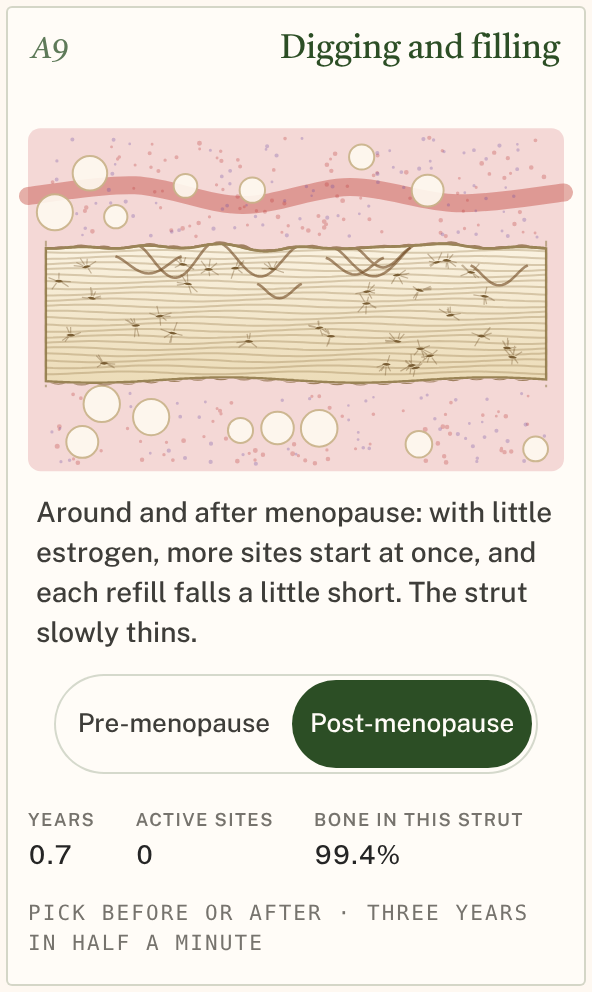
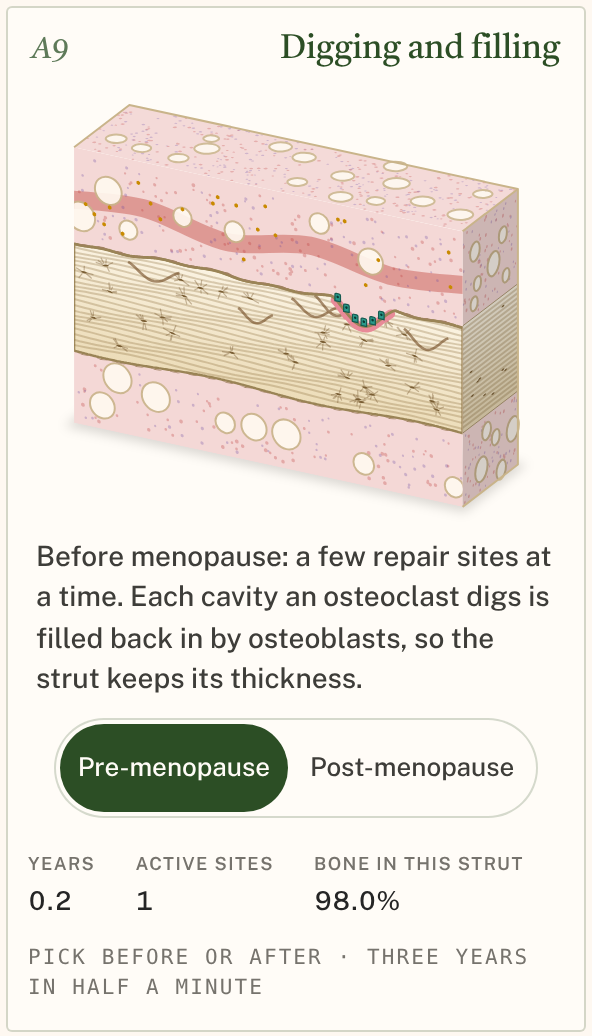
A9: section becomes the face of a 3-D bone-and-marrow block
The remodelling section is mapped onto the front of an isometric cut-away
block (as A3b and A8). The top shows marrow from above; the right end
shows the strut in cross-section with lamellae between marrow layers.
Live code untouched. Both themes, post state, 320 px, reduced motion,
console clean, line ends 0.

Claude-Session: https://claude.ai/code/session_01BGndyyGpXNQbxpF4TgwG4g

diff --git a/figures/a9-bone-remodelling/figure.css b/figures/a9-bone-remodelling/figure.css
@@ -44,3 +44,8 @@
 .a9-par { display: block; margin-top: 6px; }
 .a9-par:first-child { margin-top: 0; }
 .a9-par small { font-size: 12.5px; color: var(--anatomy-muted); }
+/* the 3-D block: top and right end faces */
+.b9-top-light { fill: #fff; opacity: 0.07; }
+.b9-side-shade { fill: #000; opacity: 0.16; }
+.b9-edge { fill: none; stroke: var(--a9-fat-edge); stroke-width: 1; stroke-linejoin: round; }
+.b9-shadow { fill: rgba(0, 0, 0, 0.14); filter: blur(6px); }

diff --git a/figures/a9-bone-remodelling/NOTES.md b/figures/a9-bone-remodelling/NOTES.md
@@ -57,3 +57,11 @@ Calibration targets are SWAN's ≈ 2–2.5 %/yr at the spine (1.8 % at the femor
 
 1. **Menopause Protocol match:** checked against the protocol PDF (v1.0, §3 and §7). The caption now uses its wording and numbers from Greendale 2012: fastest from about a year before to about two years after the final period; about 7 % spine and 6 % hip in those three years; about 10 % spine over ten years.
 2. **No treatment state, by design.** Peter allowed treatments on screen, but the protocol doesn't present hormone therapy as bone protection: it covers bone as screening and strength training. A9 stays mechanism-only to match.
+
+## Round 2 (2026-10-12): 3-D block
+Peter approved the isometric look (A3b). The section is now the front face of a cut-away block of spongy bone and marrow (azimuth 62°, elevation 24°, depth 150), cropped to X0..X1 so the strut is cut at both ends of the block.
+- **Top:** marrow seen from above: fat cells, red and white speckle, a light wash.
+- **Right end:** marrow above and below the strut, and the strut in cross-section with its lamellae and a few osteocytes, shaded.
+- **Drawing:** both faces are flat 2-D textures placed with `planeMatrix`. The live code is untouched and draws in section coordinates inside the front group.
+- **Known simplification:** the strut on the end face keeps its starting thickness. Pits never reach the cut ends (sites start inside X0..X1), so the two faces still agree.
+- **Verified:** both themes; post state; 320 px no h-scroll; reduced motion; console clean; line ends 0.
